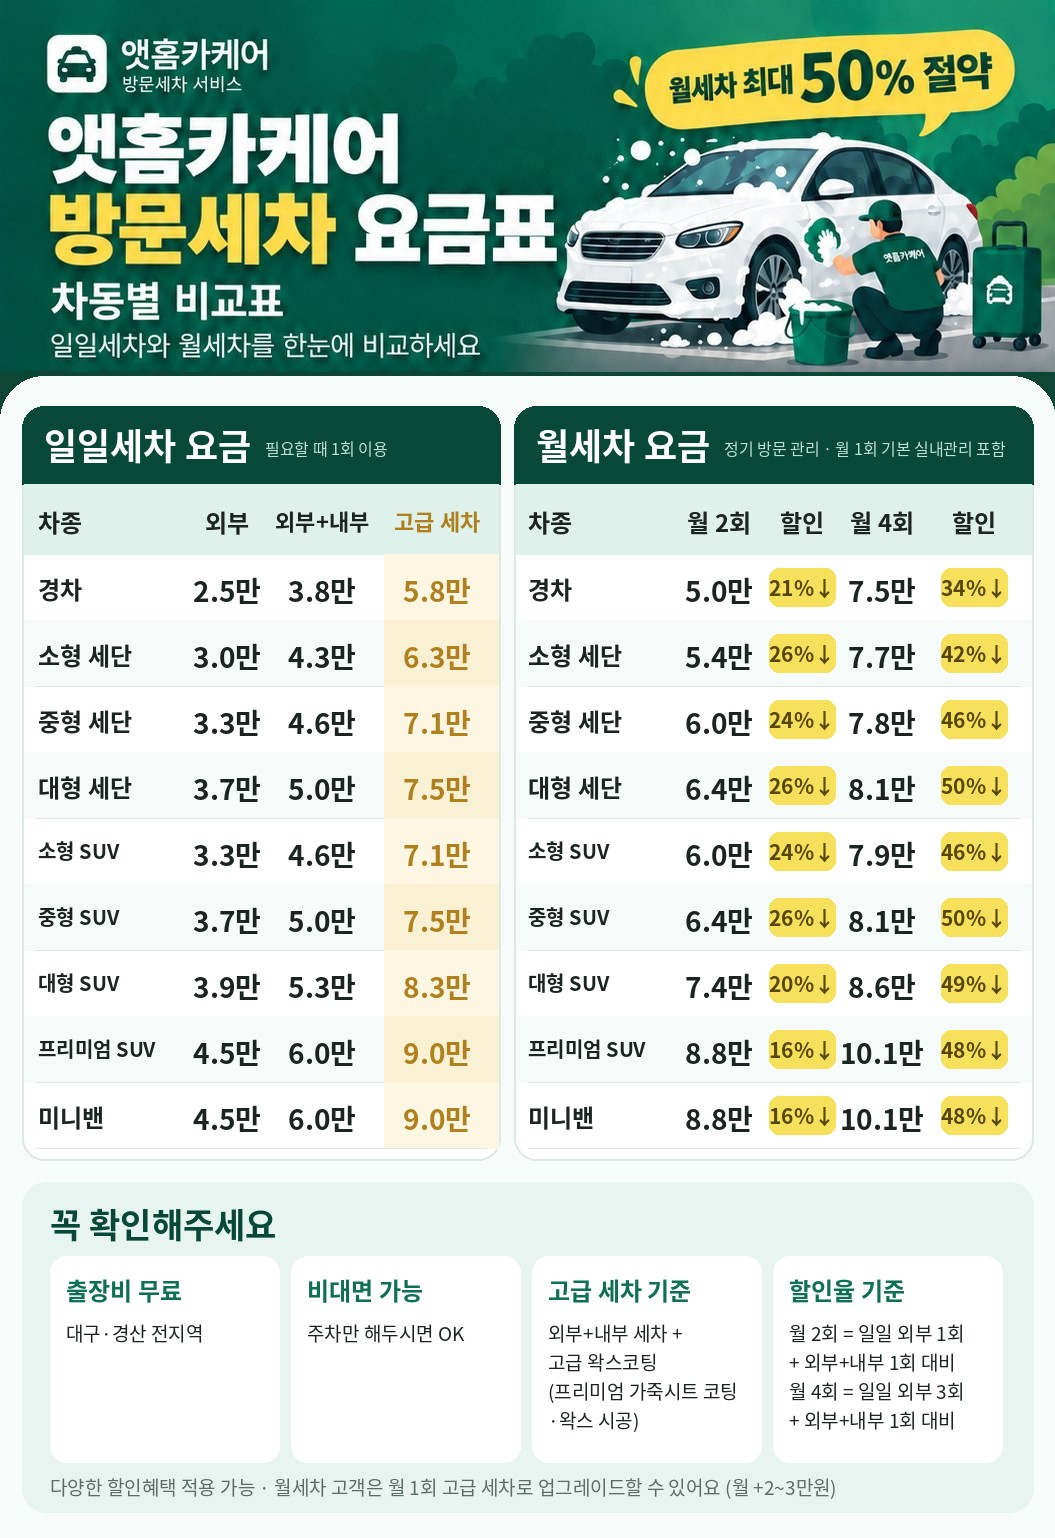
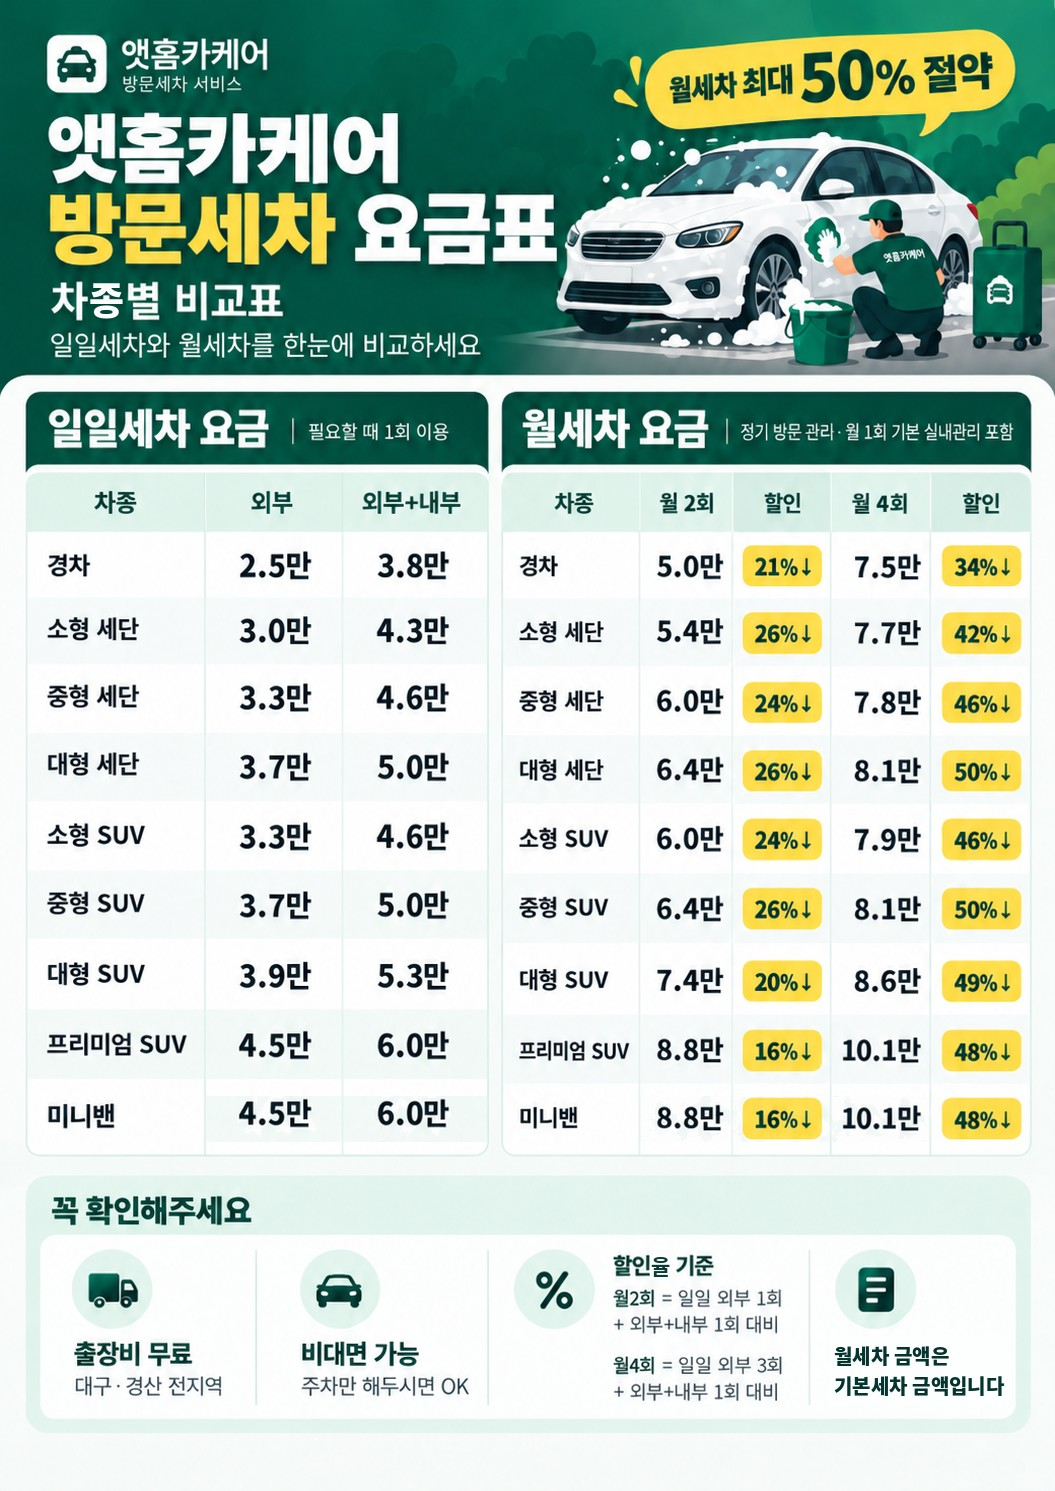
Add files via upload

Changed region(s): [[0.0, 0.0, 1.0, 0.9873]]

diff --git a/index.html b/index.html
@@ -159,7 +159,7 @@
           <details class="vip-guide-toggle"><summary><span class="pt-ic"><svg class="ui-line-icon" viewBox="0 0 24 24" aria-hidden="true"><path d="M9 6h11M9 12h11M9 18h11"/><path d="M4 6h.01M4 12h.01M4 18h.01"/></svg></span><span class="pt-tx"><b>세차 진행 과정 7단계</b><small>어떤 순서로 세차하는지 확인하세요</small></span></summary><img class="process-img" loading="lazy" src="assets/info/wash-process.jpg" width="941" height="1672" alt="앳홈카케어는 이렇게 세차합니다: 휠·타이어 세척, 프리워시, 폼·행굼, 투버킷 손세차, 드라잉, 유리 세정과 간편 왁스, 타이어 광택 7단계. 추가 옵션 철분·타르 제거 10,000원~. 방문세차, 오후 2시~새벽 2시, 출장비 무료. 대구·경산 전지역, 카카오 @앳홈카케어"></details>
         </section>
         <section class="content-section price-toggle-section" id="priceTableSection">
-          <details class="vip-guide-toggle"><summary><span class="pt-ic"><svg class="ui-line-icon" viewBox="0 0 24 24" aria-hidden="true"><path d="M6 3h8l5 5v13H6z"/><path d="M14 3v5h5M9 13h7M9 17h7"/></svg></span><span class="pt-tx"><b>차종별 전체 요금표</b><small>방문세차 · 월세차 요금 한눈에</small></span></summary><img class="process-img" src="assets/info/price-table.jpg" width="1055" height="1538" loading="lazy" alt="앳홈카케어 차종별 방문세차·월세차 요금표"></details>
+          <details class="vip-guide-toggle"><summary><span class="pt-ic"><svg class="ui-line-icon" viewBox="0 0 24 24" aria-hidden="true"><path d="M6 3h8l5 5v13H6z"/><path d="M14 3v5h5M9 13h7M9 17h7"/></svg></span><span class="pt-tx"><b>차종별 전체 요금표</b><small>방문세차 · 월세차 요금 한눈에</small></span></summary><img class="process-img" src="assets/info/price-table.jpg?v=20261011d" width="1055" height="1491" loading="lazy" alt="앳홈카케어 차종별 방문세차·월세차 요금표"></details>
         </section>
         <section class="content-section" id="addonSection">
           <details class="addon-fold"><summary><span class="pt-ic"><svg class="ui-line-icon" viewBox="0 0 24 24" aria-hidden="true"><path d="M12 5v14M5 12h14"/><rect x="3" y="3" width="18" height="18" rx="4"/></svg></span><span class="pt-tx"><b>추가 항목</b><small>필요한 관리만 골라 예약에 추가하세요</small></span></summary>
@@ -1113,12 +1113,12 @@
   </script>
   <script src="compat-fix.js?v=20260929-area1"></script>
   <script src="restore-classic.js?v=20260916-2"></script>
-  <script src="app.js?v=20261010-opt1"></script>
+  <script src="app.js?v=20261011-price3"></script>
   <script src="supabase-integration.js?v=20261010-simple4"></script>
   <script src="vip-refresh.js?v=20261010-vip4" defer></script>
   <script src="booking-simple.js?v=20261010-simple1" defer></script>
   <script src="booking-lookup.js?v=20261010-lookup4" defer></script>
-  <script src="member-dashboard.js?v=20261010-member9" defer></script>
+  <script src="member-dashboard.js?v=20261011-member10" defer></script>
   <script src="vip-contract-admin.js?v=20261010-vip4" defer></script>
   <script src="member-link-admin.js?v=20261010-link2" defer></script>
   <script src="dual-access.js?v=20261010-both3" defer></script>

diff --git a/member-dashboard.js b/member-dashboard.js
@@ -379,6 +379,9 @@
   let oauthErrorText = '';
   function oauthErrorMessage(t) {
     const raw = String(t || '').replace(/\+/g, ' ');
+    if (/exchange|invalid_client|client.?secret|KOE010|unauthorized_client/i.test(raw)) return '카카오 로그인 설정 오류(비밀키 불일치)로 로그인할 수 없습니다. 사장님께 알려 주세요. (' + raw.slice(0, 80) + ')';
+    if (/bad_oauth_state|state parameter/i.test(raw)) return '로그인 시간이 지났거나 다른 창에서 진행되었습니다. 이 화면에서 카카오 로그인을 한 번 더 눌러 주세요.';
+    if (/redirect/i.test(raw)) return '카카오 로그인 주소 설정 오류입니다. 사장님께 알려 주세요. (' + raw.slice(0, 80) + ')';
     if (/email/i.test(raw)) return '카카오 계정의 이메일 제공에 동의해 주셔야 로그인할 수 있어요. 다시 로그인하면서 이메일 항목에 체크해 주세요.';
     if (/provider is not enabled|Unsupported provider/i.test(raw)) return '카카오 로그인이 아직 켜져 있지 않습니다. 사장님께 문의해 주세요.';
     if (/access_denied|cancel/i.test(raw)) return '카카오 로그인이 취소되었습니다. 다시 시도해 주세요.';
@@ -394,7 +397,7 @@
       saveSession({access_token:q.get('access_token'), refresh_token:q.get('refresh_token'), expires_in:q.get('expires_in')});
       return 'ok';
     }
-    oauthErrorText = q.get('error_description') || query.get('error_description') || q.get('error') || query.get('error') || '';
+    oauthErrorText = [q.get('error') || query.get('error'), q.get('error_code') || query.get('error_code'), q.get('error_description') || query.get('error_description')].filter(Boolean).join(': ');
     return 'error';
   }
   const oauthResult = captureOAuthReturn();

diff --git a/service-worker.js b/service-worker.js
@@ -1,4 +1,4 @@
-const CACHE = 'athome-carcare-v158';
+const CACHE = 'athome-carcare-v163';
 const ASSETS = [
   './', './index.html', './styles.css?v=20260916-1line', './home-polish.css?v=20260916-nohero1', './restore-classic.js?v=20260916-2', './compat-fix.js?v=20260916-3', './app.js?v=20261007-care1', './supabase-integration.js?v=20261006-kakaosplit', './manifest.webmanifest?v=20261001-icon7', './data/content.json',
 './icons/icon-192.png?v=20261001-icon7', './icons/icon-512.png?v=20261001-icon7', './icons/icon-maskable-512.png?v=20261001-icon7',
